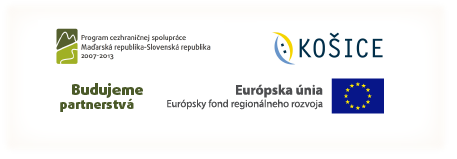
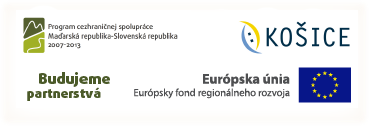
Info section updated for screen 770px

diff --git a/css/stylesheet.css b/css/stylesheet.css
@@ -12,7 +12,7 @@ root {
 
 * {
     margin: 0px 0px;
-    border: red solid 1px;
+    /*    border: red solid 1px;*/
 }
 
 html, body {
@@ -33,11 +33,9 @@ html, body {
 .page_section_wrapper {
     /*    padding-top: 7%;*/
     /*height: 100%;*/
-    margin: 100px auto;
+    margin: 10% auto;
+    width: 85%;
 
-    width: 80%;
-
-    /*margin-left: 12%;*/
     border: black solid 2px;
 }
 
@@ -121,6 +119,7 @@ html, body {
 
 #welcome_menu .welcome_menu_item_wrapper:hover {
     cursor: pointer;
+    background-color: white;
 }
 /**************** end of welcome section ****************/
 
@@ -289,47 +288,23 @@ html, body {
     background-size:cover;
 }
 
-@media (max-width: 770px)
-{ 
-    #sticky_menu_logo_item{
-        display: none;
-    }
 
-    #sticky_menu_wrapper_centered{
-        width: 470px;
-        margin-left: -235px;
-    }
-
-    .page_section_wrapper {
-
-        width: 90%;
-
-    }
-}
 
 #project_info_container {
 
     position: relative;
 
-    width: 1028px;
-    height: 490px;
+    display: block;
 
-    /*border: solid red 1px;*/
+    max-width: 100%;
+    height: auto;
 }
 #left_part_wrapper {
     position: relative;
     float: left;
-
+    /*display: inline-block;*/
     width: 32%;
     height: auto;
-
-/*    top: 0px;
-    left: 0px;*/
-
-    padding-top:    4px;
-    padding-bottom: 0px;
-    /*    padding-left:   4px;*/
-    padding-right:   2px;
 
     /*border: solid purple 1px;*/
 }
@@ -339,21 +314,18 @@ html, body {
     /*width: 100%;*/
     max-width: 100%;
     height: auto;
-    
+
     border: solid purple 2px;
 }
 
 #right_part_wrapper {
-    position: absolute;
+    position: relative;
     float: right;
+    /*display: inline-block;*/
+    width: 66%;
+    /*height: max-content;*/
 
-    width: 65%;
-    height: auto;
-
-    top: 0px;
-    right: 0px;
-
-    padding: 4px;
+    /*max-height: 100%;*/
 
     /*border: solid orange 1px;*/
 }
@@ -362,10 +334,15 @@ html, body {
 
     position: relative;
 
-    width: 314px;
-    
+    /*width: 314px;*/
+    height: 30%;
+    width: 90%;
+    margin-left: 5%;
+    margin-right: 5%;
 
-    margin-bottom: 20px;
+
+    /*border: solid orange 1px;*/
+    margin-bottom: 5%;
 }
 
 #right_part_wrapper .project_info_right_part_text_wrapper{
@@ -374,7 +351,9 @@ html, body {
 
 #right_part_wrapper .project_info_right_part_row{
     width: 100%;
+    height:100%;
     clear: both;
+    overflow: hidden;
 }
 
 #right_part_wrapper .project_info_right_part_text_wrapper .left_column{
@@ -390,7 +369,12 @@ html, body {
 
 #right_part_wrapper img {
 
-    margin-top: 30px;
+    position: relative;
+    margin-top: 2%;
+    max-height: 100%;
+    max-width: 100%;
+    height: auto;
+    overflow: hidden;
 }
 /**************** end of project info section ****************/
 
@@ -756,3 +740,70 @@ ul.dash_circle {
 }
 
 
+
+/****************************** Media Queries ******************************/
+
+@media (max-width: 770px)
+{
+    #sticky_menu_logo_item{
+        display: none;
+    }
+
+    #sticky_menu_wrapper_centered{
+        width: 470px;
+        margin-left: -235px;
+    }
+
+    .page_section_wrapper {
+
+        width: 95%;
+
+    }
+
+    .common_text {
+        font-size: 1.95em;  
+        /*20 px*/ 
+    }
+
+    .small {
+        font-size: 1.8em;  
+    }
+
+    .section_title_wh {
+        margin-bottom: 0.5%;
+        font-size: 3.3em; /* 55 px */
+    }
+
+    .section_title_bl {
+        margin-bottom: 0.5%;
+        font-size: 3.3em; /* 55 px */
+        text-align: center;
+    }
+
+    .mybr {
+        display: none;
+        clear: both;
+    }
+
+    #left_part_wrapper{
+        margin-top: -3%;
+    }
+
+    #right_part_wrapper img {
+        display: block;
+        vertical-align: middle;
+    }
+
+
+    .table_text_bold {
+        font-size: 1.8em;
+    }
+
+    .left_part_block_item {
+
+        margin-left: 3%;
+        margin-right: 3%;
+
+        margin-bottom: 5%;
+    }    
+}

diff --git a/tv.html b/tv.html
@@ -465,14 +465,13 @@
                                             30. septembra  2014
                                         </div>
                                     </div>
-                                </div></div>                           
-
+                                </div>
+                            </div>                           
                         </div>
                         <!-- logos -->
-                        <div class="project_info_right_part_row">
-                            <img src="css/images/loga-02.png" alt="Loga" style="max-width: 390px;" />                         
-                        </div>                      
+                            <img src="css/images/loga-02.png" alt="Loga" /> 
                     </div>
+                    <div style="clear: both"></div>
                 </div>
             </div>
         </div>
